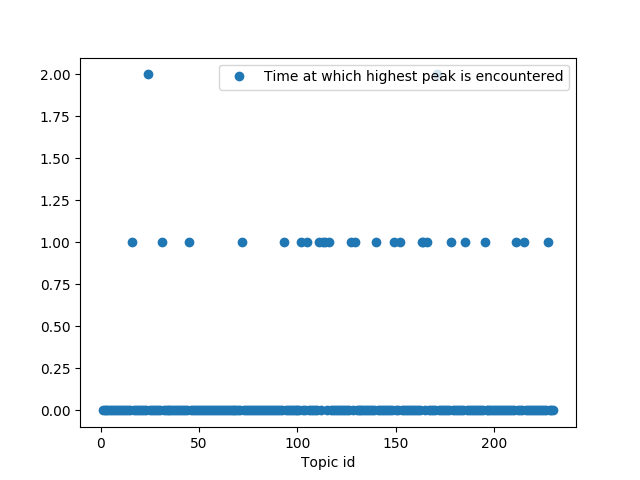
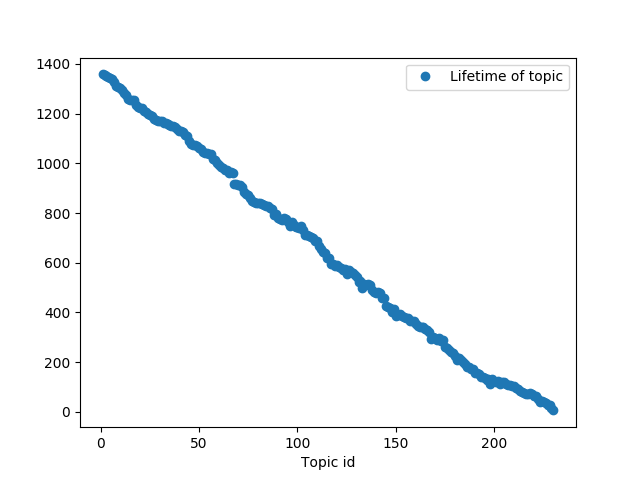
Negligible lifetime as a metric to distinguish between viral and sub-viral

diff --git a/src/peakTimes.py b/src/peakTimes.py
@@ -9,8 +9,8 @@ import sys
 from math import log
 
 threshold1 = 40
-threshold2 = 200
-threshold3 = 30
+threshold2 = 20
+threshold3 = 10
 numProcesses = int(sys.argv[1])
 
 
@@ -36,9 +36,13 @@ for iter in range(numProcesses):
                     y[i] = x
                     maxtime[i] = time
                 if (x != 0) and (first[i] == 0):
-                	first[i] = time
-                if (x == 0) and (first[i] != 0) and (last[i] == 0):
-                	last[i] = time
+                    first[i] = time
+                if (x < 4):
+                    if (first[i] != 0) and (last[i] == 0):
+                        last[i] = time
+                else:
+                    if (last[i] != 0):
+                        last[i] = 0
                 size = i
 
 
@@ -48,31 +52,29 @@ for iter in range(numProcesses):
     first = first[24:size+1]
     last = last[24:size+1]
     for i in range(size-23):
-    	if last[i]==0:
-    		last[i] = time+1
+        if last[i]==0 and first[i] != 0:
+            last[i] = time+1
     maxtime = maxtime[24:size+1]
     maxtime = [maxtime[i] - init[i] for i in range(size-23)]
     lifetime = [last[i] - first[i] for i in range(size-23)]
-    print('Mean lifetime:',statistics.mean(lifetime))
-
 
     neg = 0
     for i in range(size-23):
-    	if y[i] < threshold3:
-    		neg = neg + 1
+        if lifetime[i] < threshold3:
+            neg = neg + 1
     print('negligible count:', neg)
 
     sdy = statistics.stdev(maxtime)
     print('Standard Deviation:', sdy)
     if sdy < threshold1:
-    	print(iter, ': Super-viral regime')
+        print(iter, ': Super-viral regime')
     elif neg > threshold2:
-    	print(iter, ': Sub-viral regime')
+        print(iter, ': Sub-viral regime')
     else:
-    	print(iter, ': Viral regime')
+        print(iter, ': Viral regime')
 
 
-    plt.plot(x, maxtime, 'o', label='Time at which highest peak is encountered')
+    plt.plot(x, lifetime, 'o', label='Lifetime of topic')
     plt.legend(loc='upper right')
     plt.xlabel('Topic id')
     plt.savefig('../figures/peaktime'+str(iter)+'.png')
